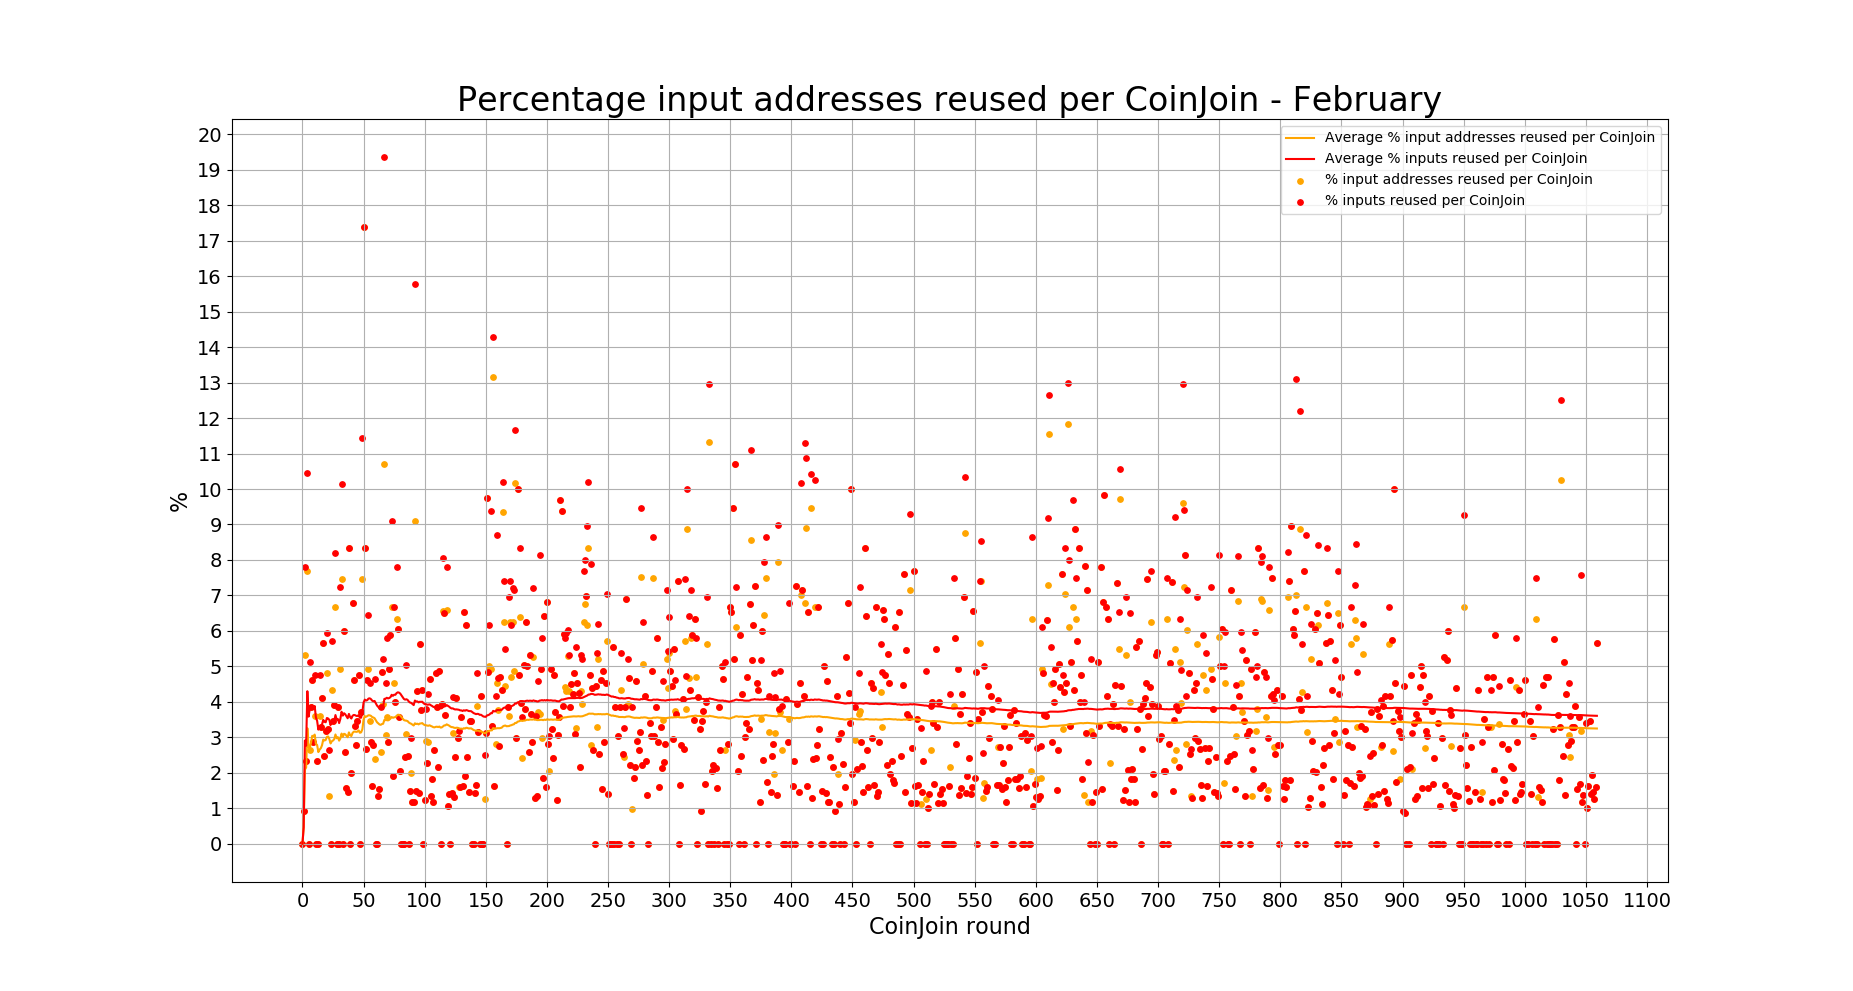
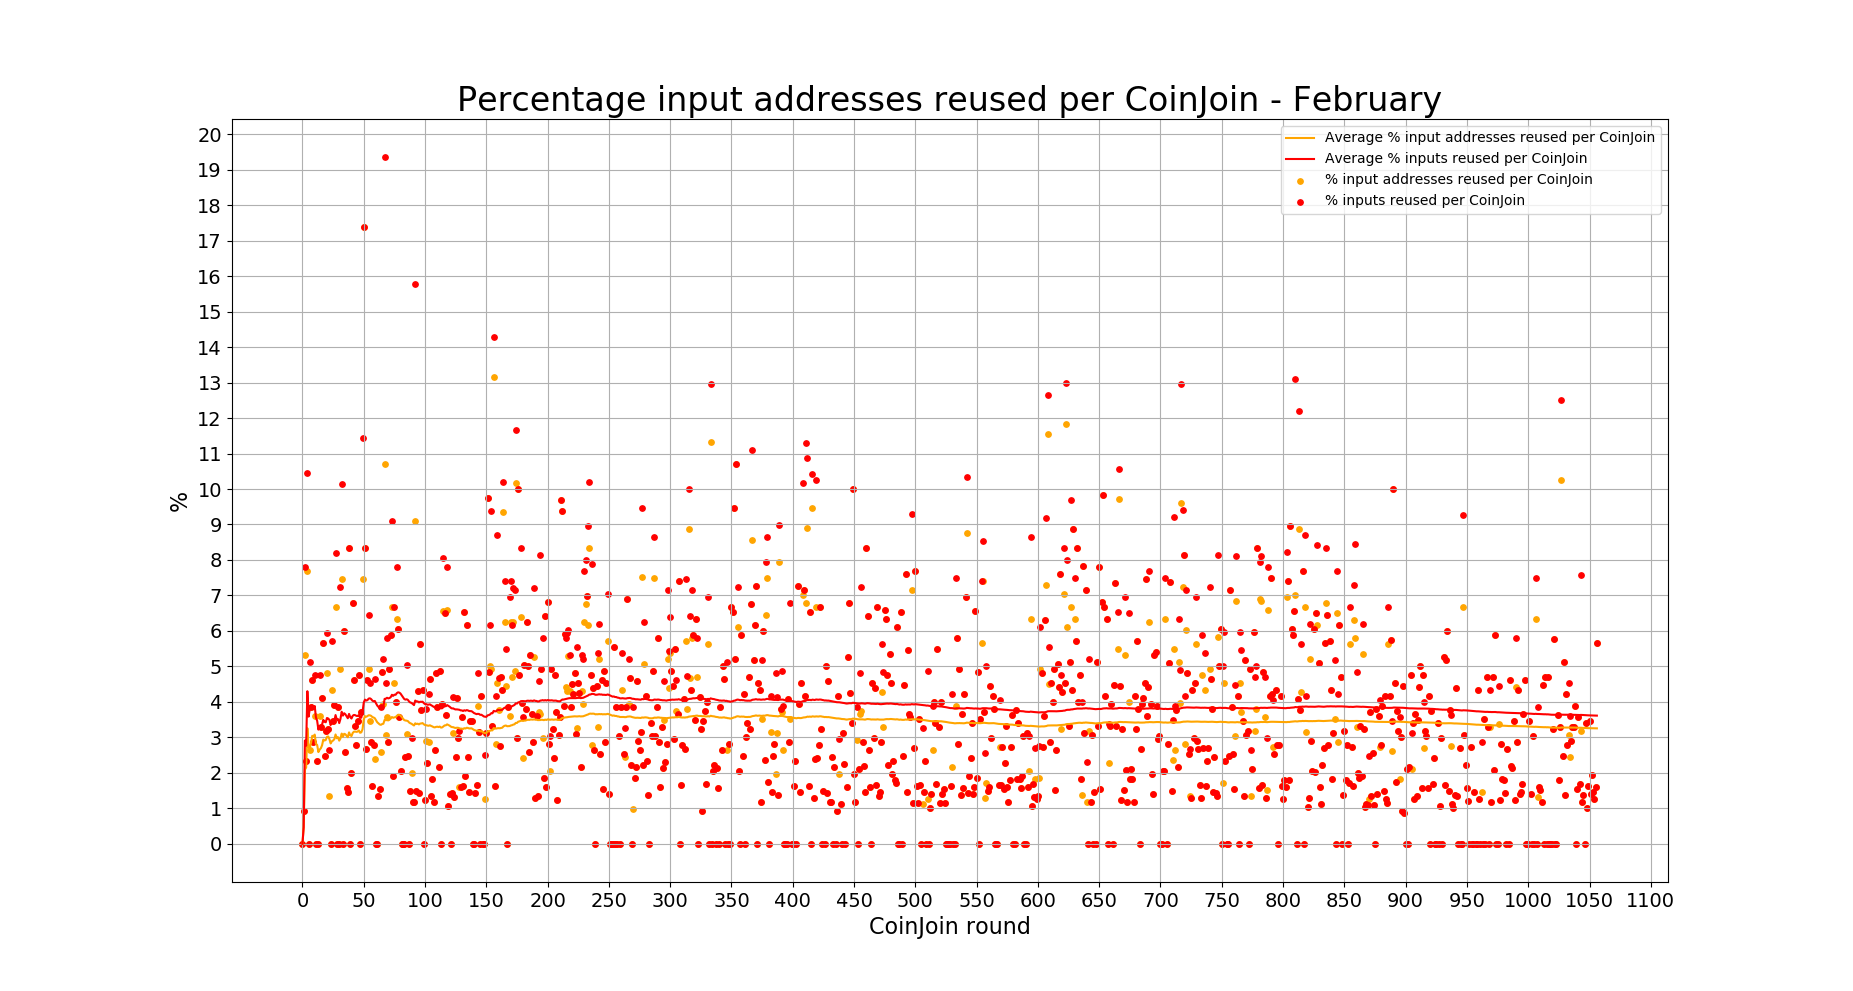
fix february

diff --git a/2020/February/README.md b/2020/February/README.md
@@ -7,7 +7,7 @@ For stats about the previous months, look [here](/months_list.md).
 ---
 
 ## February - from block 615428 to 619581
-**1060 CoinJoin round**
+**1057 CoinJoin round**
 
 ---
 
@@ -18,7 +18,7 @@ For stats about the previous months, look [here](/months_list.md).
 
 **Last values:**
 
-* Blue line = 36.5
+* Blue line = 36.4
 
 #### Partecipants per CoinJoin
 ![partecipants_per_CoinJoin](partecipants_per_CoinJoin.png)
@@ -39,8 +39,8 @@ For stats about the previous months, look [here](/months_list.md).
 
 **Last values:**
 
-* Green line = 31981
-* Blue line = 14382
+* Green line = 31925
+* Blue line = 14355
 
 ### INPUTS
 
@@ -49,26 +49,26 @@ For stats about the previous months, look [here](/months_list.md).
 
 **Last values:**
 
-* Orange line = 1739
-* Red line = 4374
-* Light blue line = 30828
-* Green line = 74169
-* Blue line = 76804
+* Orange line = 1737
+* Red line = 4367
+* Light blue line = 30574
+* Green line = 73858
+* Blue line = 76488
 
 #### Percentage remixers per CoinJoin
 ![percentage_remixers_per_CoinJoin](percentage_remixers_per_CoinJoin.png)
 
 **Last values:**
 
-* Blue line = 41.4
+* Blue line = 41.2
 
 #### Total percentage remixers
 ![total_percentage_remixers](total_percentage_remixers.png)
 
 **Last values:**
 
-* Green line = 41.5
-* Blue line = 40.1
+* Green line = 41.4
+* Blue line = 40
 
 #### Percentage address reuse per CoinJoin
 ![percentage_address_reuse_per_CoinJoin](percentage_address_reuse_per_CoinJoin.png)
@@ -93,10 +93,10 @@ For stats about the previous months, look [here](/months_list.md).
 
 **Last values:**
 
-* Orange line = 1948
-* Red line = 4780
-* Green line = 78714
-* Blue line = 81546
+* Orange line = 1943
+* Red line = 4769
+* Green line = 78510
+* Blue line = 81336
 
 #### Percentage equal outputs reused per CoinJoin
 ![percentage_equal_outputs_reused_per_CoinJoin](percentage_equal_outputs_reused_per_CoinJoin.png)
